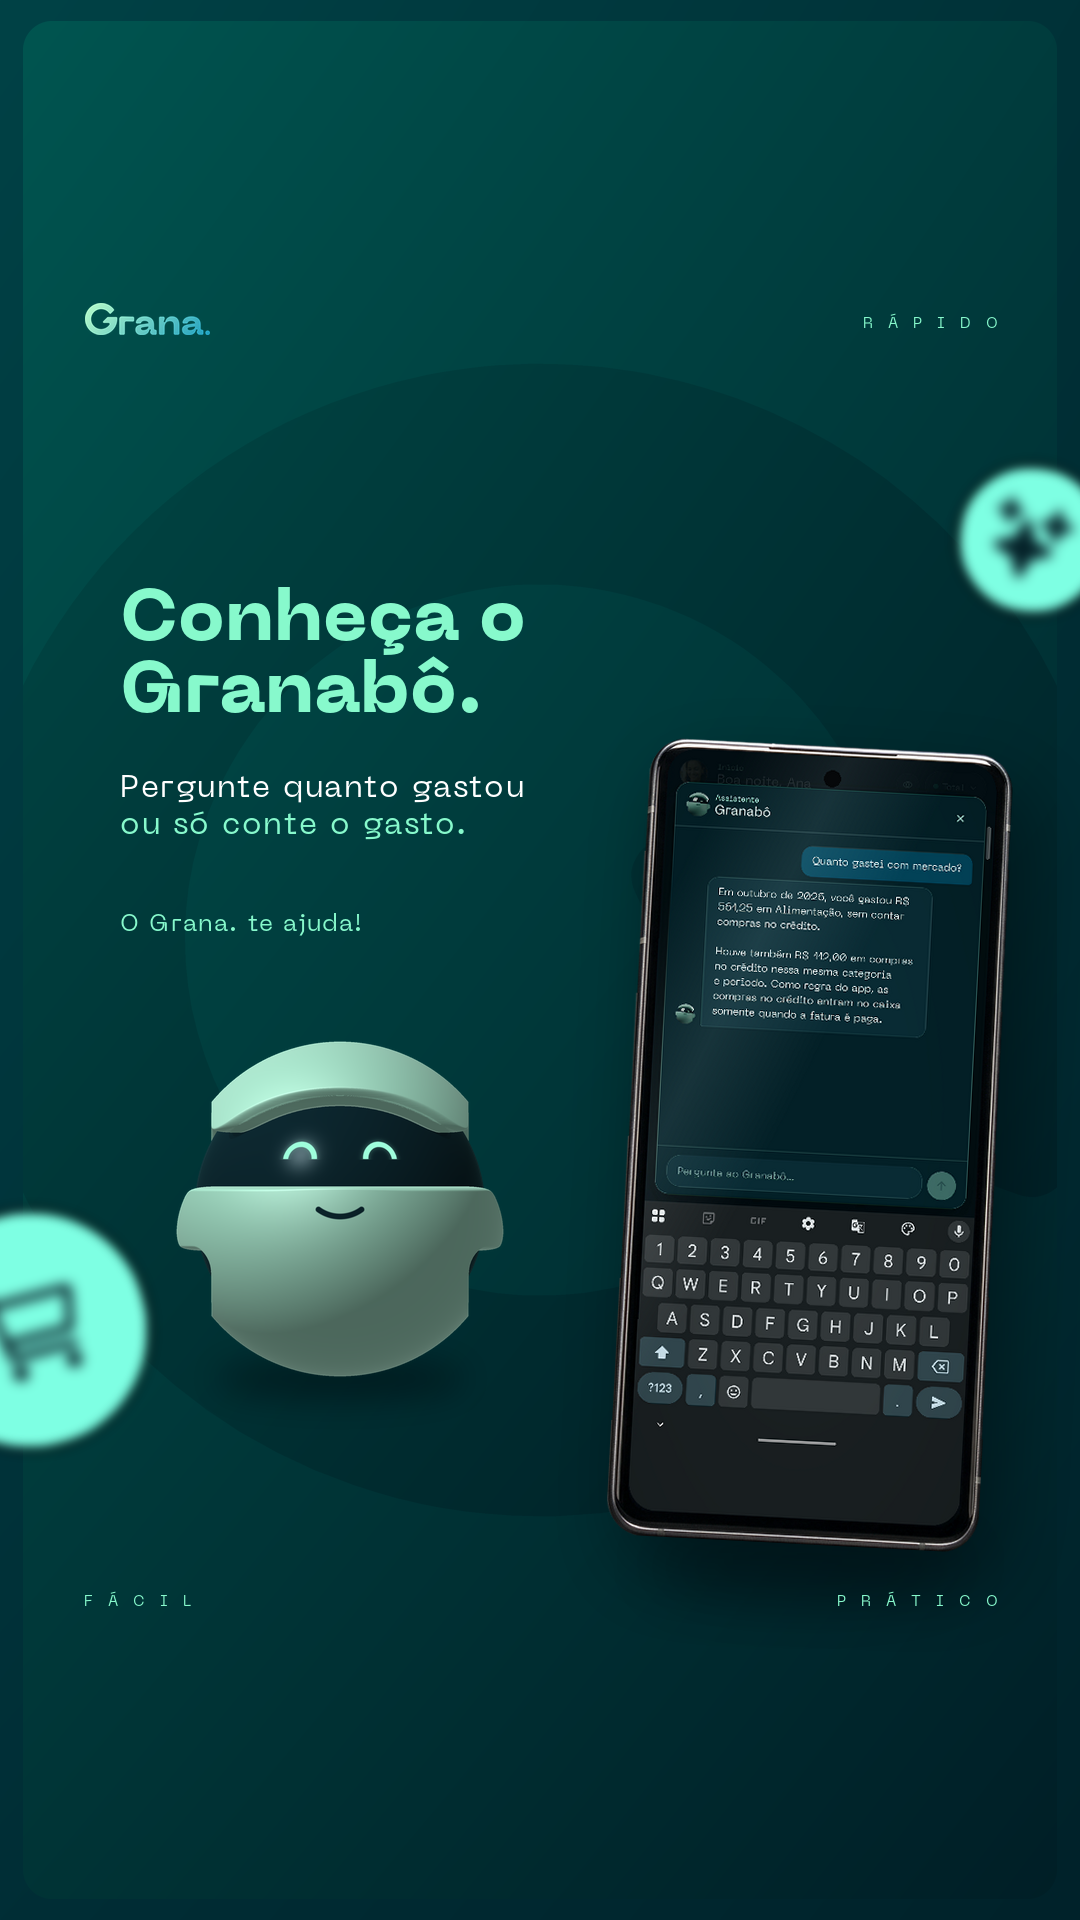
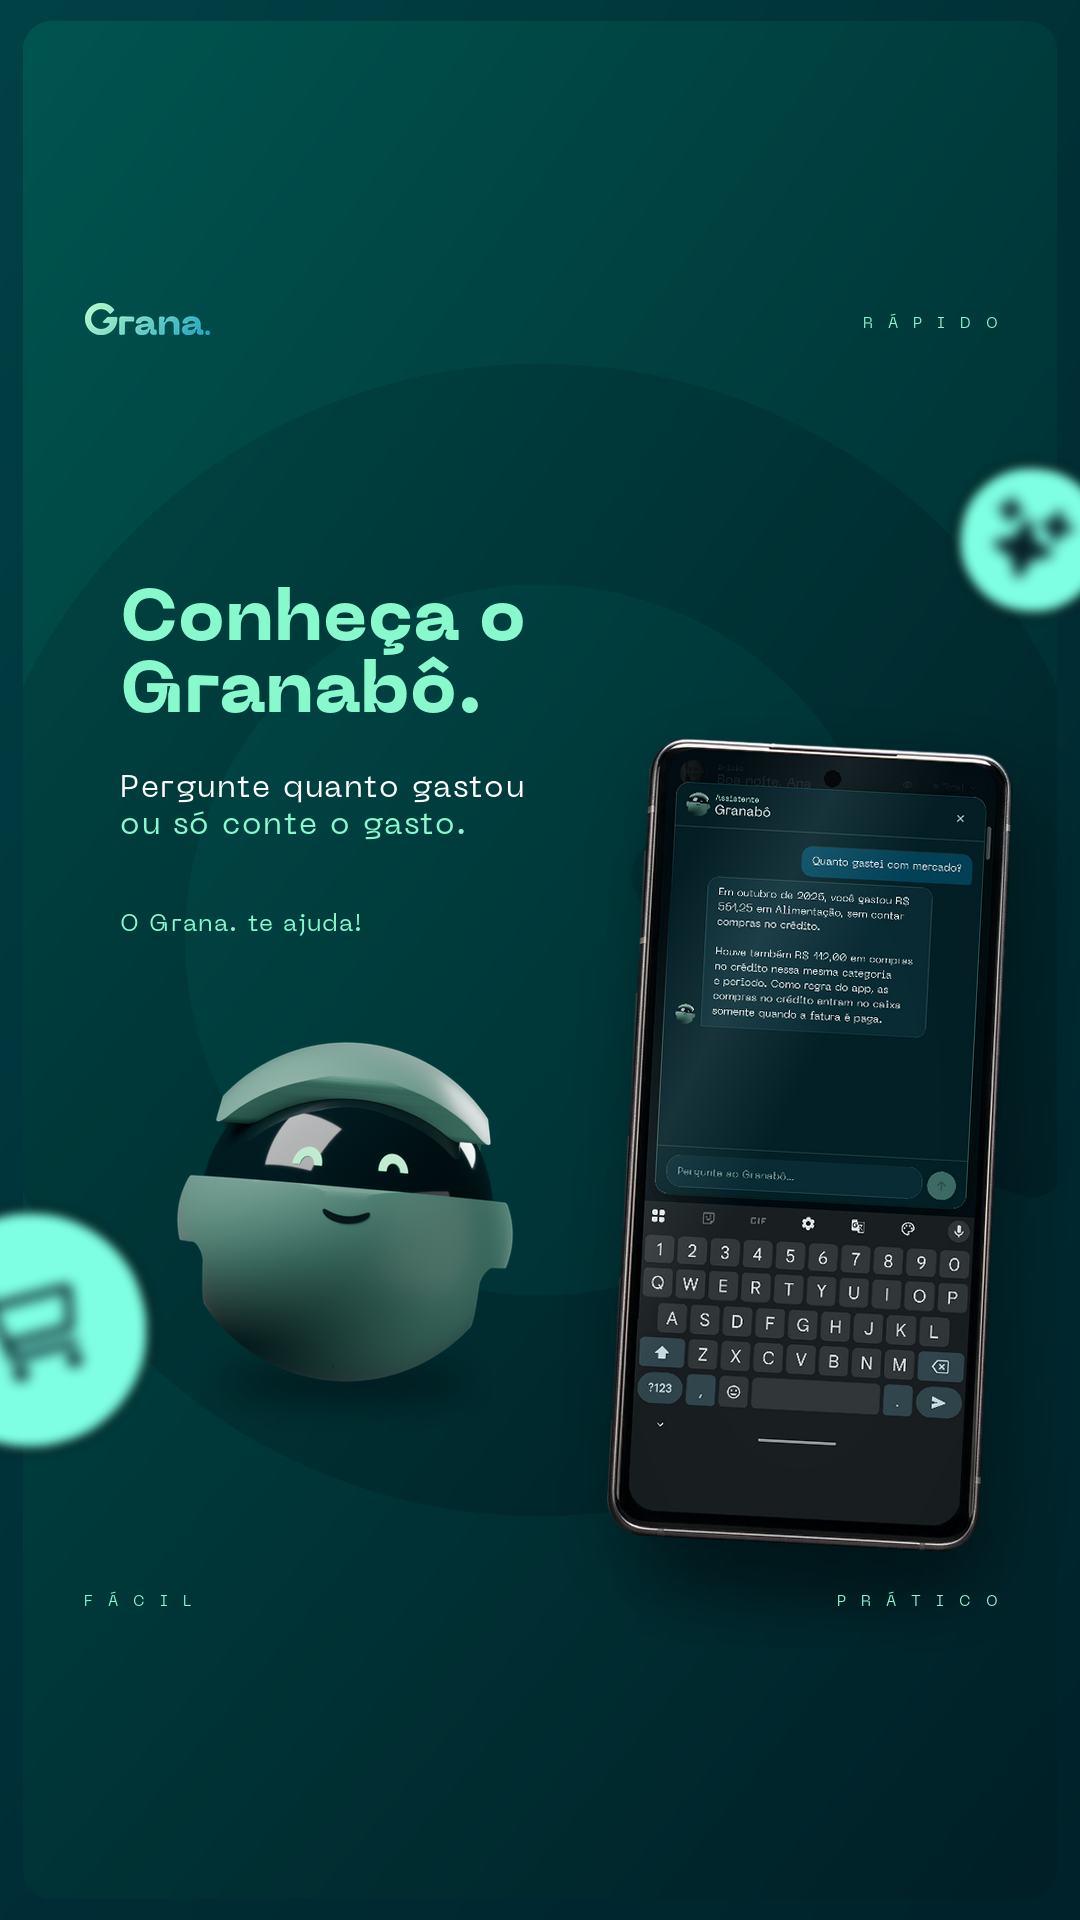
marketing(s43): capa do Reels Granabo com o mascote do app (render com brilho)

Changed region(s): [[0.1528, 0.5312, 0.4889, 0.7188]]

diff --git a/docs/marketing/2026-10/semana-43-2026-10-19-a-2026-10-25/apoio/ferramentas/gerar-capa-reels-granabo.py b/docs/marketing/2026-10/semana-43-2026-10-19-a-2026-10-25/apoio/ferramentas/gerar-capa-reels-granabo.py
@@ -3,7 +3,8 @@
 Usa o gerador das capas aprovadas da semana 41 (gerar-capas-reels.py), no sistema do
 guia-de-design-estatico-feed-3x4.md (regra 26): arquétipo A, texto à esquerda e
 celular à direita, com a resposta real do Granabô gravada no celular do autor (conta
-de teste). O mascote entra ao lado do texto, renderizado do modelo 3D (reels-granabo/sprites).
+de teste). O mascote é o mesmo do app e da web (assets/granabo/granabo-feliz.png), o render com brilho
+que também aparece no vídeo.
 
 Uso:  python -I gerar-capa-reels-granabo.py <tela.png> <saida.png>
 A tela é um quadro de granachat-consulta.mp4 (1080x2388), em E:/Grana-temporarios.
@@ -20,7 +21,7 @@ spec = importlib.util.spec_from_file_location('capas', os.path.join(
     RAIZ, 'docs', 'marketing', '2026-10', 'semana-41-2026-10-05-a-2026-10-11', 'apoio', 'ferramentas', 'gerar-capas-reels.py'))
 C = importlib.util.module_from_spec(spec)
 spec.loader.exec_module(C)
-MASCOTE = os.path.join(RAIZ, 'docs', 'marketing', 'reels-granabo', 'sprites', 'feliz.png')
+MASCOTE = os.path.join(RAIZ, 'assets', 'granabo', 'granabo-feliz.png')   # o mesmo Granabô do app e da web
 OY = C.OY
 
 
@@ -48,10 +49,11 @@ def capa(tela, saida):
 
     # mascote ao lado do texto, com sombra de contato
     m = Image.open(MASCOTE).convert('RGBA')
-    m = m.crop(m.getbbox()).resize((330, 338), Image.LANCZOS)
+    m = m.crop(m.getbbox())
+    m = m.resize((340, round(340 * m.height / m.width)), Image.LANCZOS)
     mx, my = 175, OY + 800
     sombra = Image.new('L', base.size, 0)
-    ImageDraw.Draw(sombra).ellipse([mx + 40, my + 318, mx + 290, my + 358], fill=130)
+    ImageDraw.Draw(sombra).ellipse([mx + 45, my + m.height - 22, mx + 295, my + m.height + 18], fill=130)
     sombra = sombra.filter(ImageFilter.GaussianBlur(16))
     base = Image.composite(Image.new('RGBA', base.size, (0, 10, 14, 255)), base, sombra)
     base.alpha_composite(m, (mx, my))

diff --git a/docs/marketing/2026-10/semana-43-2026-10-19-a-2026-10-25/INDICE.md b/docs/marketing/2026-10/semana-43-2026-10-19-a-2026-10-25/INDICE.md
@@ -3,7 +3,7 @@
 ## Para aprovação
 
 - `para-aprovacao/pecas/reels/Conheça o Granabô.mp4`: Reels de apresentação do mascote, 1080x1920, 17,6 s, v6 de 19/10/2026 (celular maior e cortado embaixo, foco no Granachat, barra de status com o cronômetro do gravador escondida sob a moldura). Montado na Editonny (HyperFrames) com narração da ElevenLabs (voz "Gabriel - Shorts & Reels", aprovada pelo autor), trilha pop local e as telas reais gravadas no celular do autor (conta de teste). Fontes da edição em `apoio/reels-granabo-v3/`. Legenda em `para-aprovacao/pecas/COPYS-FINAIS.md`.
-- `para-aprovacao/pecas/reels/Conheça o Granabô-capa.png`: capa do Reels, 1080x1920, arquétipo A do guia de design estático (texto à esquerda, celular à direita com a resposta real do Granabô, mascote ao lado do texto). Gerada por `apoio/ferramentas/gerar-capa-reels-granabo.py`.
+- `para-aprovacao/pecas/reels/Conheça o Granabô-capa.png`: capa do Reels, 1080x1920, arquétipo A do guia de design estático (texto à esquerda, celular à direita com a resposta real do Granabô, mascote do app ao lado do texto, `assets/granabo/granabo-feliz.png`). Gerada por `apoio/ferramentas/gerar-capa-reels-granabo.py`.
 
 ## Observações da produção
 
